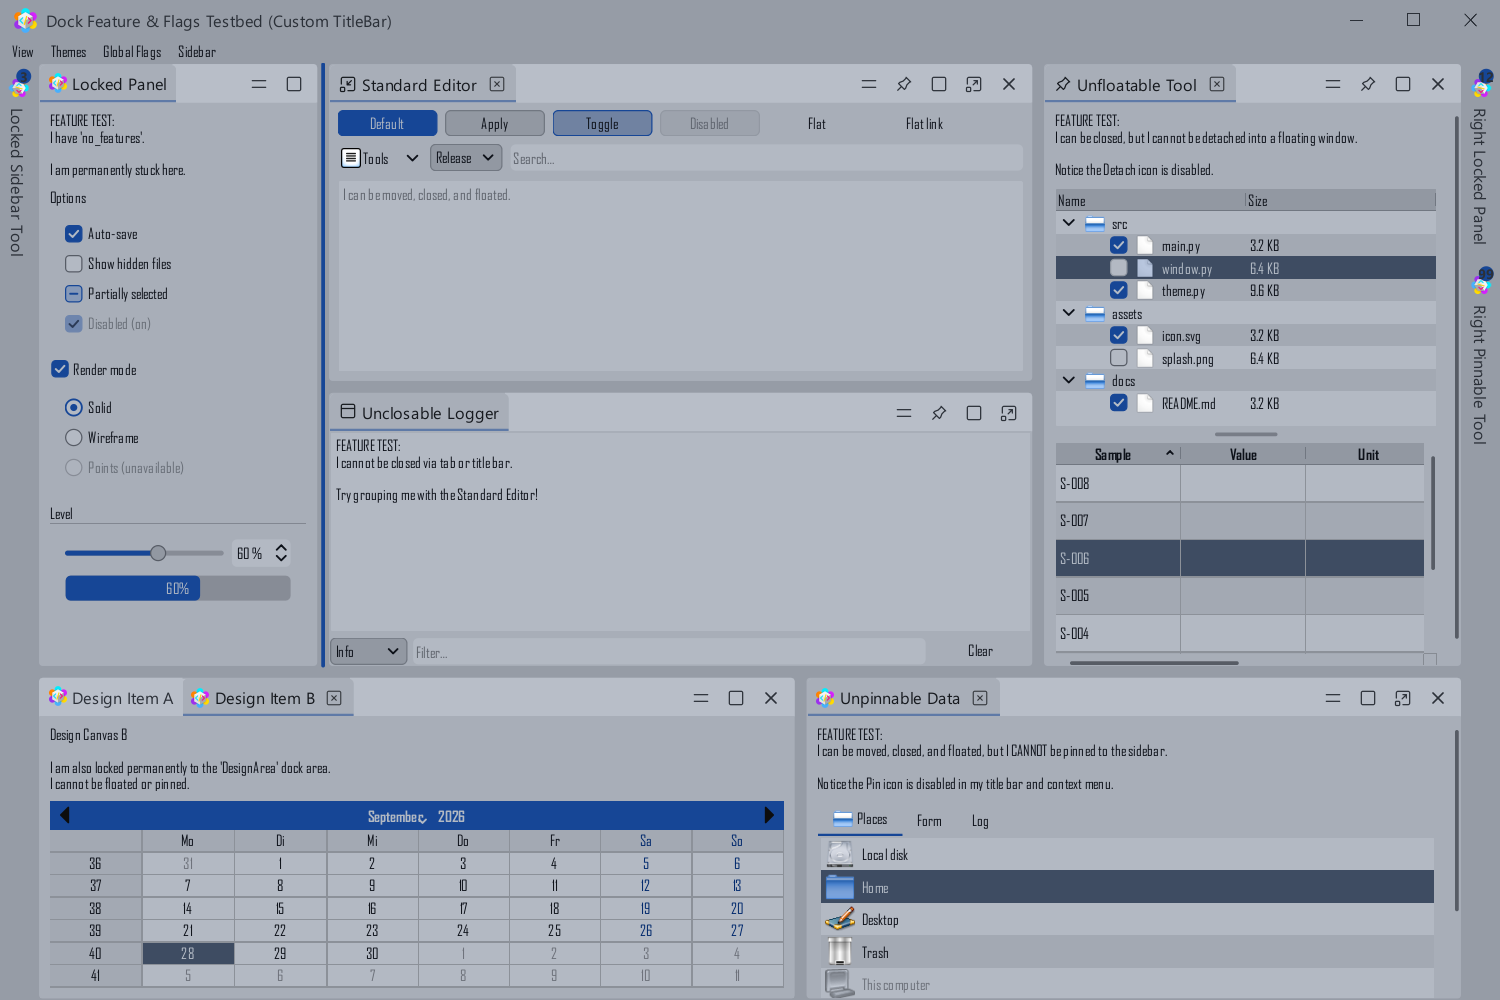
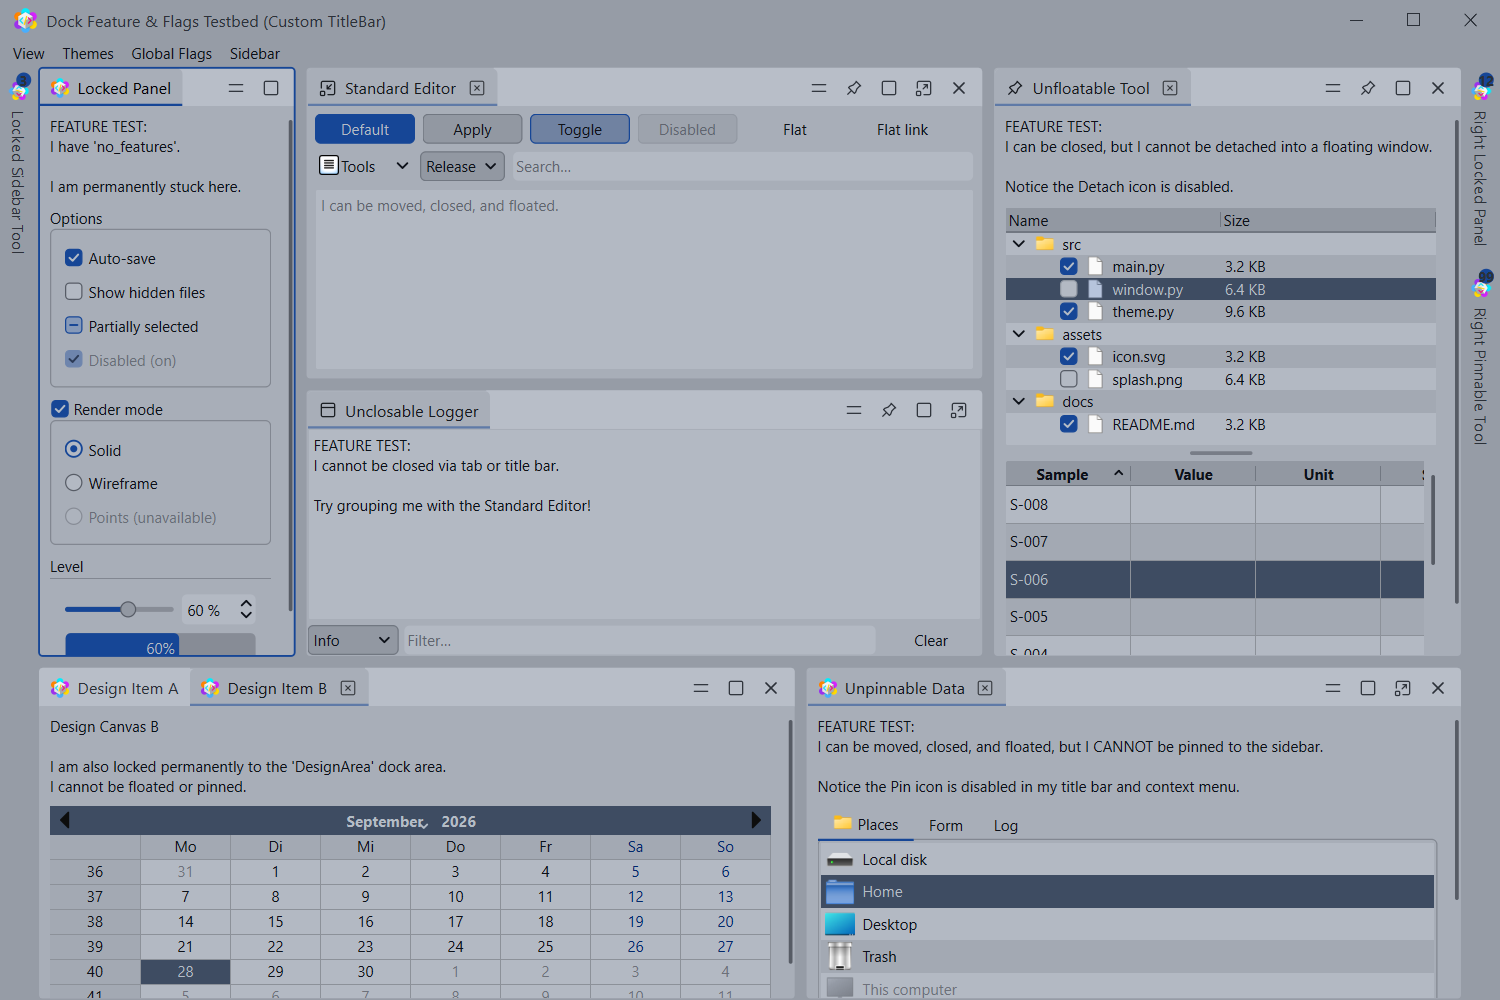
docs(screenshots): README grid from native windows, one dock area active
The twelve main-window shots are retaken on the Windows platform, not
offscreen: real visible windows at the display's own 125% scale, with
system font rendering, and the grid captions drawn the same way.
screenshot_themes.py now makes one docked area active before each grab,
so every shot shows the focus highlight of a window in use. The README
image URL moves to ?v=0.8.3 so GitHub's proxy fetches the new grid.

Changed region(s): [[0.0, 0.0, 1.0, 1.0], [0.5827, 0.124, 0.6133, 0.155], [0.5213, 0.124, 0.552, 0.155]]

diff --git a/dev_smoke/screenshot_themes.py b/dev_smoke/screenshot_themes.py
@@ -104,6 +104,17 @@ for theme in THEMES:
     flt.move(w.x() + w.width() + 40, w.y() + 60)
     flt.show()
     app.processEvents()
+    # Make one docked area the active one, so the shot shows the focus
+    # highlight the way a window in use does.
+    areas = []
+    for x in w.dock_manager.dock_widgets_map().values():
+        area = x.dock_area_widget()
+        if area is not None and area.isVisible() and area not in areas \
+                and area.window() is w:
+            areas.append(area)
+    if areas:
+        w.dock_manager.set_active_dock_area(random.choice(areas))
+    app.processEvents()
     settle(500)
     save(w.grab(), f"main_{theme}.png")
     save(flt.grab(), f"float_{theme}.png")

diff --git a/README.md b/README.md
@@ -186,7 +186,7 @@ for the full API.
 
 ## Screenshots
 
-![Lace frameless main window across 12 themes](https://raw.githubusercontent.com/opticsWolf/Lace/main/screenshots/main_themes_grid.png?v=0.8.2)
+![Lace frameless main window across 12 themes](https://raw.githubusercontent.com/opticsWolf/Lace/main/screenshots/main_themes_grid.png?v=0.8.3)
 
 *The frameless main window (custom title bar, dock panels, splitters) across 12 built-in themes.*
 
